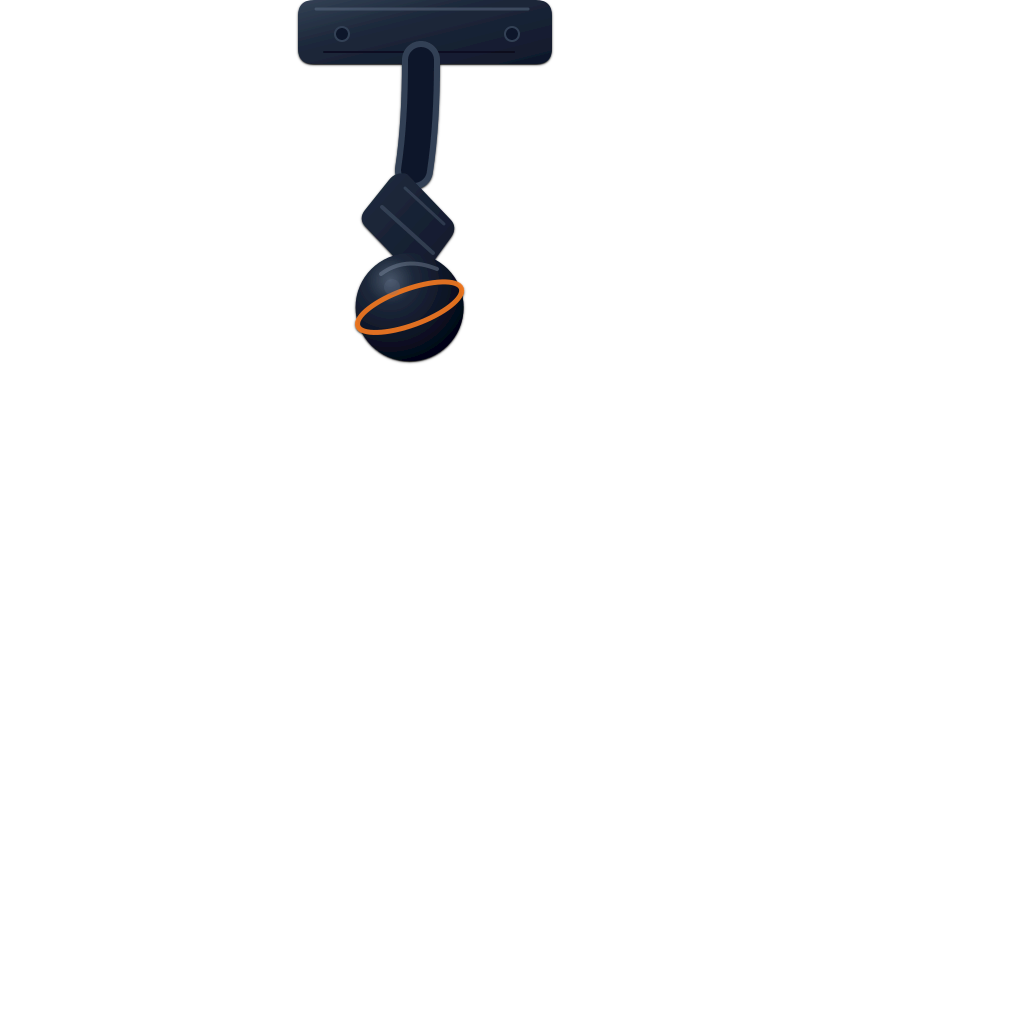
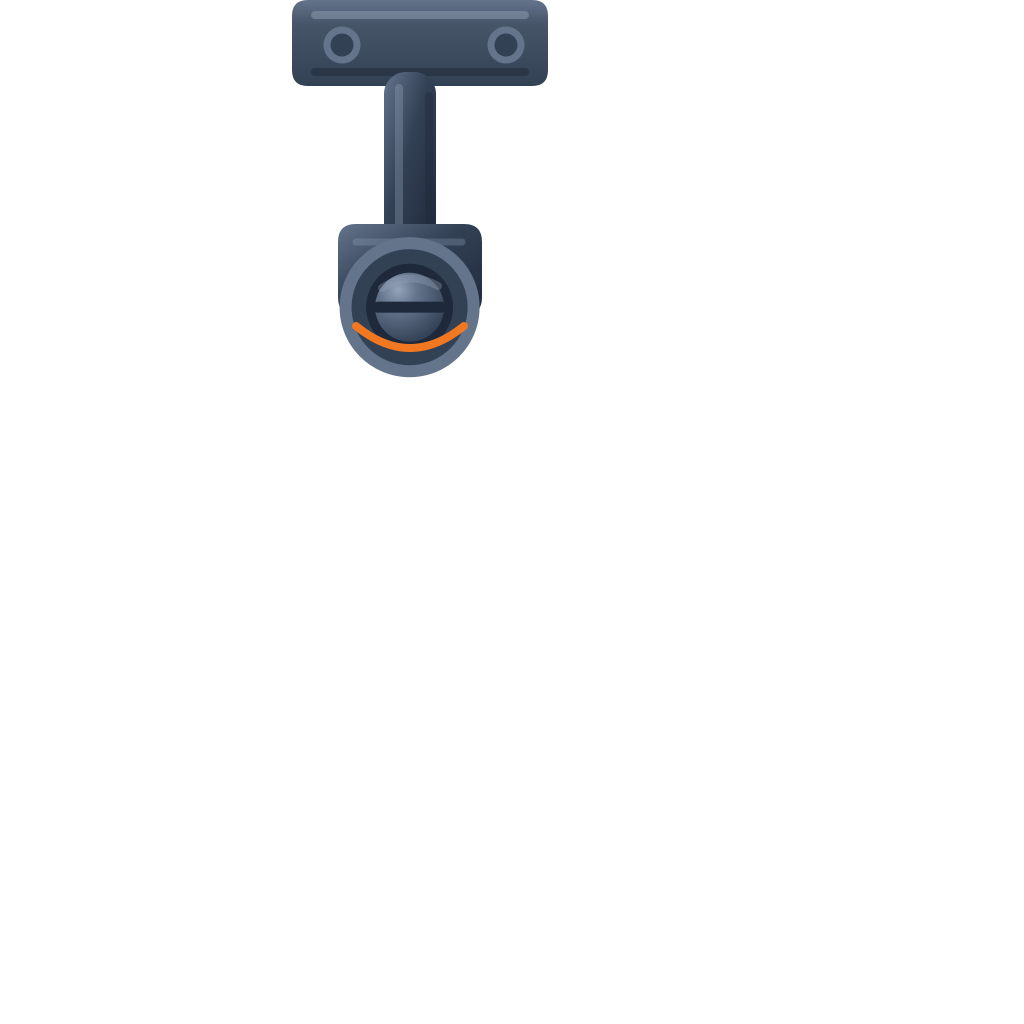
feat(landing): rediseño retro de la cámara del header + lerp en tiempo real
Assets v2: cámara CCTV retro 70s-80s en perfil verdadero (el barril del
lente de costado, sin círculo frontal), tonos medios que resaltan sobre el
fondo oscuro, y tamaño 80→96px. Recalibrado desde la fuente SVG
(LENS_FRONT 0.8121/0.5693).

El suavizado del seguimiento pasa de lerp por frame a suavizado
exponencial en tiempo real (1-exp(-dt/tau)): a bajos fps (headless,
pantallas 30Hz, battery-saver) el lerp por frame convergía tan lento que
el timer de idle devolvía la cámara al reposo antes de llegar al target.

Changed region(s): [[0.2812, 0.0, 0.5625, 0.375]]

diff --git a/apps/web/src/lib/ui/headerCamera.ts b/apps/web/src/lib/ui/headerCamera.ts
@@ -1,16 +1,17 @@
 // Calibración de la cámara decorativa del header (HeaderCamera).
 // Los valores de geometría salen de las fuentes SVG en
-// public/images/cctv-layers/: el cuerpo está dibujado horizontal y rotado 30°
-// alrededor de la rótula en (409.6, 307.2) de un canvas de 1024; el centro del
-// lente queda en (842.6, 557.2). Si se regeneran los assets, recalibrar acá.
+// public/images/cctv-layers/ (v2 retro): el cuerpo está dibujado horizontal y
+// rotado 30° alrededor del lug en (409.6, 307.2) de un canvas de 1024; la
+// punta del barril del lente queda en (831.6, 583.0). Si se regeneran los
+// assets, recalibrar acá.
 
 export const CAM = {
   /** Lado del box renderizado en pantalla (el canvas es cuadrado). */
-  RENDER_W: 80,
-  /** Centro de la rótula, en fracción del canvas. Eje de rotación del cuerpo. */
+  RENDER_W: 96,
+  /** Centro del lug/bisagra, en fracción del canvas. Eje de rotación del cuerpo. */
   PIVOT: { x: 0.4, y: 0.3 },
-  /** Centro del lente frontal, en fracción del canvas (ancla del LED/flash). */
-  LENS_FRONT: { x: 0.8228, y: 0.5441 },
+  /** Punta del barril del lente, en fracción del canvas (ancla del LED/flash). */
+  LENS_FRONT: { x: 0.8121, y: 0.5693 },
   /** Inclinación dibujada del cuerpo en el asset (grados, 0° = derecha, + horario). */
   A0: 30,
   /** Clamp del ángulo de mira hacia el cursor (grados en pantalla). */
@@ -18,8 +19,12 @@ export const CAM = {
   AIM_MAX: 66,
   /** Ángulo de reposo/idle (grados en pantalla). */
   REST_AIM: 35,
-  /** Factor de interpolación por frame del seguimiento. */
-  LERP: 0.1,
+  /**
+   * Constante de tiempo del suavizado exponencial (ms). El factor por frame
+   * es 1 - exp(-dt/TAU): independiente del frame rate (a 60fps equivale a
+   * ~0.11 por frame; a 15fps converge en el mismo tiempo de reloj).
+   */
+  TAU_MS: 140,
   /** Corte del loop rAF: delta menor a esto se considera convergido (grados). */
   EPSILON: 0.05,
   /** Sin movimiento de mouse durante este tiempo → vuelve al reposo. */

diff --git a/apps/web/src/components/layout/HeaderCamera.tsx b/apps/web/src/components/layout/HeaderCamera.tsx
@@ -54,8 +54,13 @@ export default function HeaderCamera() {
       });
     };
 
-    const loop = () => {
-      cur += (target - cur) * CAM.LERP;
+    let lastFrame = 0;
+
+    const loop = (now: number) => {
+      // Suavizado exponencial en tiempo real: mismo ritmo a cualquier fps.
+      const dt = lastFrame ? Math.min(now - lastFrame, 100) : 16.7;
+      lastFrame = now;
+      cur += (target - cur) * (1 - Math.exp(-dt / CAM.TAU_MS));
       if (Math.abs(target - cur) <= CAM.EPSILON) {
         cur = target;
         running = false;
@@ -68,6 +73,7 @@ export default function HeaderCamera() {
     const kick = () => {
       if (!running) {
         running = true;
+        lastFrame = 0;
         raf = requestAnimationFrame(loop);
       }
     };